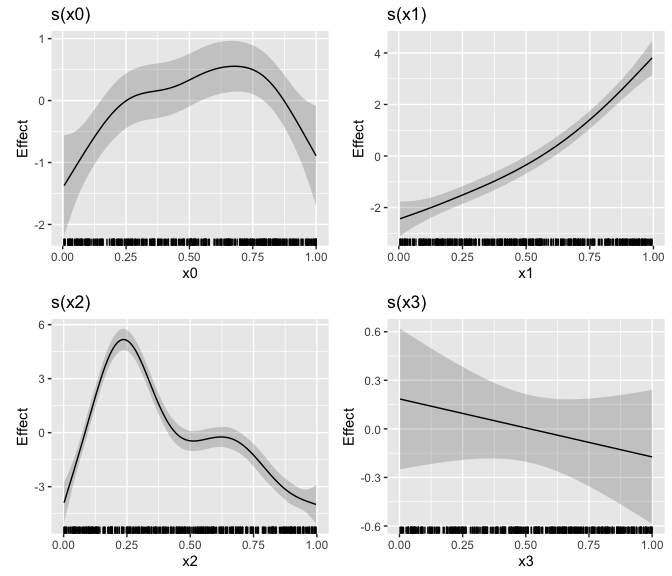
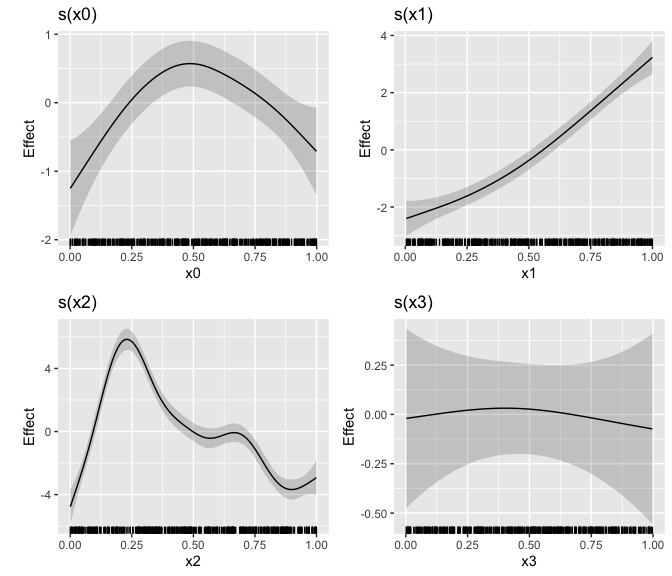
Re-build README.md

diff --git a/README.md b/README.md
@@ -27,19 +27,8 @@ smooths.
 Features
 --------
 
-    library('mgcv')
     #> Loading required package: nlme
     #> This is mgcv 1.8-31. For overview type 'help("mgcv-package")'.
-    library('gratia')
-    df <- gamSim(eg = 1, n = 400, verbose = FALSE)
-    m <- gam(y ~ s(x0) + s(x1) + s(x2) + s(x3), data = df, model = "REML")
-    draw(m)
-
-<img src="man/figures/README-draw-gam-figure-1.png" width="100%" />
-
-    appraise(m)
-
-<img src="man/figures/README-appraise-figure-1.png" width="100%" />
 
 The main features of *gratia* are currently
 
